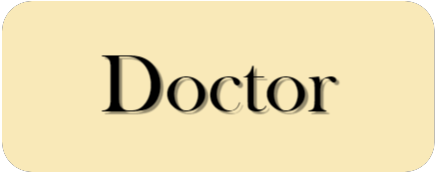
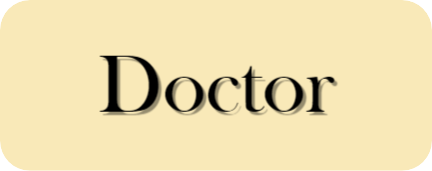
시작 화면 버튼 제작

Changed region(s): [[0.2106, 0.2924, 0.7824, 0.7018], [0.0, 0.0, 0.963, 1.0], [0.963, 0.0292, 1.0, 0.9649]]

diff --git a/src/Projects/Start.java b/src/Projects/Start.java
@@ -1,14 +1,36 @@
 package Projects;
 
+import java.awt.event.MouseAdapter;
+import java.awt.event.MouseEvent;
+import java.awt.event.MouseListener;
+
+import javax.swing.ImageIcon;
+import javax.swing.JButton;
 import javax.swing.JLabel;
 
 public class Start extends CommonFrame {
-	
-	public Start() {
-		super("title", Main.SCREEN_WIDTH, Main.SCREEN_HEIGHT);
-		JLabel lb = new JLabel(getIcon("images/start.png", Main.SCREEN_WIDTH, Main.SCREEN_HEIGHT));
-		lb.setBounds(0, 0, Main.SCREEN_WIDTH, Main.SCREEN_HEIGHT);
-		add(lb);
-	}
-	
+   
+   public Start() {
+      super("title", Main.SCREEN_WIDTH, Main.SCREEN_HEIGHT);
+      
+      JButton Doctorbtn = new JButton(new ImageIcon("images/dc_bt.png"));
+      JButton Patientbtn = new JButton(new ImageIcon("images/pt_bt.png"));
+      
+      Doctorbtn.setBorderPainted(false);
+      Doctorbtn.setContentAreaFilled(false);
+      Doctorbtn.setFocusPainted(false);
+      
+      Patientbtn.setBorderPainted(false);
+      Patientbtn.setContentAreaFilled(false);
+      Patientbtn.setFocusPainted(false);
+      
+      Doctorbtn.setBounds(95, 471, 432, 171);
+      add(Doctorbtn);
+      Patientbtn.setBounds(753, 471, 432, 171);
+      add(Patientbtn);
+      
+      JLabel lb = new JLabel(getIcon("images/start.png", Main.SCREEN_WIDTH, Main.SCREEN_HEIGHT));
+      lb.setBounds(0, 0, Main.SCREEN_WIDTH, Main.SCREEN_HEIGHT);
+      add(lb);
+   }
 }

diff --git a/src/Projects/CommonFrame.java b/src/Projects/CommonFrame.java
@@ -20,9 +20,11 @@ public class CommonFrame extends JFrame {
 		setLayout(null);
 	}
 	
+	
 	public ImageIcon getIcon(String path, int w, int h) {
 		return new ImageIcon(Toolkit.getDefaultToolkit().getImage(path).getScaledInstance(w, h, Image.SCALE_SMOOTH));
 	}
+	
 }
 class ImagePanel extends JPanel {
     private Image img;

diff --git a/src/Projects/main.java b/src/Projects/main.java
@@ -14,5 +14,4 @@ public class Main {
 		new Start().setVisible(true);
 		
 	}
-	
 }
